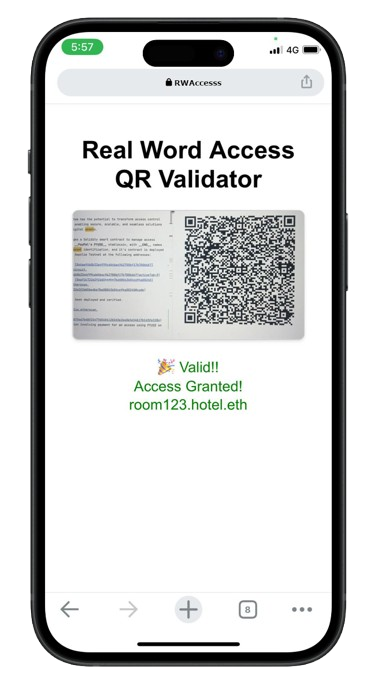
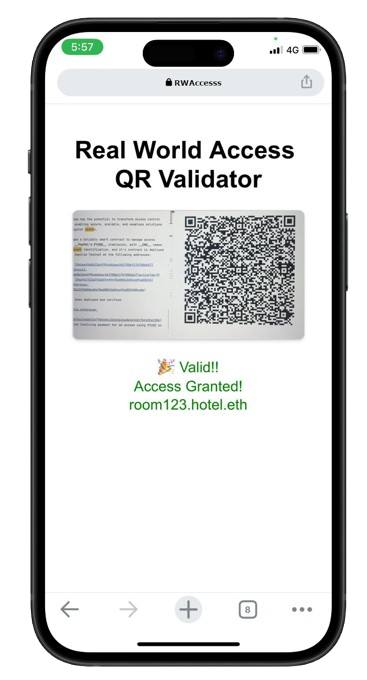
Simplified README. Fixed typo on QR validator.

Changed region(s): [[0.2098, 0.1853, 0.5095, 0.2471]]

diff --git a/web/qr_validator.html b/web/qr_validator.html
@@ -44,7 +44,7 @@
   </style>
 </head>
 <body>
-<h1>Real Word Access <br> QR Validator</h1>
+<h1>Real World Access <br> QR Validator</h1>
 <video id="video" autoplay playsinline></video>
 <canvas id="canvas"></canvas>
 <div id="result"></div>

diff --git a/src/qr_signature.py b/src/qr_signature.py
@@ -35,19 +35,27 @@ def qr_read(fnf_qr='qr_keypass.png'):
 
     # Print the decoded data
     for obj in decoded_objects:
-        print("Decoded Data:", obj.data.decode("utf-8"))
-        print("Type:", obj.type)
+        print("Decoded Type:", obj.type)
+        print("Decoded Data:\n", json.dumps(json.loads(obj.data.decode("utf-8")), indent=2))
+        print()
+
     return obj.data.decode("utf-8")
 
+
 def example():
-    data_write = json.dumps({
+    data = {
         "user": "0x25a0fEC55dD7cc314A8Bb00e666489524b7d9cB9",
         "tstart": 1755555555,
         "tend": 1755559155,
-        "ens": "room123.hotel.eth",
+        "ens": "room124.hotel.eth",
[2 lines of base64/hex data omitted]
-    })
+    }
+    print('Generating QR Code for:')
+    print(json.dumps(data, indent=2))
+    print()
+
+    data_write = json.dumps(data)
     qr_generate(data_write)
 
     # Read generated QR code:
@@ -58,7 +66,6 @@ def example():
         print("info: success! (read == written)")
     else:
         print("error: written and read data is different!")
-
 
 
 if __name__ == "__main__":

diff --git a/README.md b/README.md
@@ -1,21 +1,23 @@
 # RWAccess - Real World Access
 
-**RWAccess** is a Proof-of-Concept (PoC) demonstrating secure, decentralized access control for real-world assets using blockchain, cryptography, and QR codes. 
 
-By making a stablecoin payment to a smart contract, users receive a QR code that serves as a secure digital key. This key can replace or complement traditional access methods, such as hotel room keys, conference passes, gym memberships, or any system requiring gated access, offering a seamless and versatile solution.
+__RWAccess__ is a Proof-of-Concept (PoC) showcasing secure, decentralized access control for real-world assets using blockchain, cryptography, and QR codes.
 
-Access is granted via QR codes containing cryptographically signed messages, replacing traditional keys or passes.
+Instead of traditional keys or passes, users gain access through QR codes containing cryptographically signed messages. By making a stablecoin payment to a smart contract, the user receives a signed message which, when co-signed by the user, acts as a secure digital key.
 
-This innovative system has the potential to transform access control across industries, enabling secure, scalable, and seamless solutions for physical and digital assets.
+This system can replace or complement conventional access methods (hotel room keys, event passes, gym memberships, etc.), offering a seamless and versatile solution with strong cryptographic guarantees.
 
-This project leverages a Solidity smart contract to manage access rights, powered by __PayPal's PYUSD__ stablecoin, with __ENS__ names for user-friendly asset identification, and it's contract is deployed on __Zircuit__ and Sepolia Testnet at the following addresses:
+RWAccess uses:
 
-* Zircuit Contract: [0x6aef6b0b33a4f99cdd4bac962700bf17b700b6b7](https://explorer.zircuit.com/address/0x6aef6b0b33a4f99cdd4bac962700bf17b700b6b7?activeTab=3)
-* Sepolia Contract: [0xaf2c722e2f2dd5bedbe7be08043604ce94a00240](https://sepolia.etherscan.io/address/0xaf2c722e2f2dd5bedbe7be08043604ce94a00240#code) 
+* A Solidity smart contract to manage access rights.
+* PayPal USD (PYUSD) for stable, predictable payments.
+* ENS for human-readable asset identifiers.
+* Deployments on Zircuit and Sepolia Testnet:
+  * Zircuit Contract: [0x6aef6b0b33a4f99cdd4bac962700bf17b700b6b7](https://explorer.zircuit.com/address/0x6aef6b0b33a4f99cdd4bac962700bf17b700b6b7?activeTab=3)
+  * Sepolia Contract: [0xaf2c722e2f2dd5bedbe7be08043604ce94a00240](https://sepolia.etherscan.io/address/0xaf2c722e2f2dd5bedbe7be08043604ce94a00240#code) 
 
 Both contracts have been deployed and verified.
 
-[Here](https://sepolia.etherscan.io/tx/0xa71d578ff7c29d8b7fea7e48f21477d54041202d3e2ea0e5e54b17b1d3fa328a) is also a transaction involving payment for an access using PYUSD on Sepolia.
 
 ## Overview
 
@@ -23,14 +25,18 @@ RWAccess enables secure access to real-world assets (e.g., hotel rooms, vehicles
 
 Users pay for time-bound access using PYUSD, defined by `tstart` and `tend` in Unix time. After payment, a signature server validates and signs grants access-rights by signing the access request. This signed message, when combined with the user's signature is used to generate a QR code that can be used by any access verifier to grant or deny access.
 
+
 ### Key Features
+
 - **Solidity Smart Contract**: Manages access rights, ensuring no double-booking by tracking `tstart` and `tend`.
 - **PYUSD Payments**: Access is paid in PayPal's PYUSD stablecoin, with a configurable price-per-second set by the contract owner.
 - **ENS Integration**: Uses ENS names for human-readable, upgradable, and compact asset identification in QR codes, and enhanced security via asset address resolution.
 - **Signed QR Codes**: Act as key/pass with the following fields: `[addr, tstart, tend, ens, sig1, sig2]`.
 - **Offline Operation**: Designed for minimal dependencies, allowing requestors and grantors to operate without internet access.
 
+
 ## Applications
+
 RWAccess can replace or complement traditional access methods, such as:
 - **Physical Keys/Passes**: Hotel keycards, car keys, gym passes, plane tickets, or event badges.
 - **Advanced Use Cases**:
@@ -38,15 +44,16 @@ RWAccess can replace or complement traditional access methods, such as:
   - **Easy Recovery**: Recover lost access credentials via blockchain-based identity.
   - **Scalable Access**: Enable shared access for rentals, co-working spaces, or community resources.
 
+
 ## Why ENS?
 
 The Ethereum Name Service (ENS) simplifies blockchain interactions by mapping human-readable domain names, like example.eth, to Ethereum addresses, enhancing user experience and security for transactions and dApps.
-
 
 1. **Human-Readable**: Simplifies user experience with names like `room123.hotel.eth` instead of cryptic addresses. It can also easily point to which access it refers to, for example: `branchX.club.eth`, `license.car.eth`, `ticketX.concert.eth`, etc.
 1. **Security**: The ens can resolve to address that is expected as the owner (i.e. _sig1_ must resolve to that same address)
 1. **Compact QR Codes**: Reduces QR code density for better machine readability.
 1. **Transparent Upgrades**: Allows seamless updates to the coordinator address via ENS.
+
 
 ## Why PayPal USD?
 
@@ -69,11 +76,13 @@ Zircuit is an Ethereum Layer 2 zk-rollup blockchain leveraging AI-driven securit
 
 
 ## How It Works?
+
 1. **Access Setup**: A RWAccess contract is deployed with an ENS identifier and price per second.
 2. **Payment**: Users pay in PYUSD for access between `tstart` and `tend`. The contract validates availability and logs the booking.
 3. **Signed Message**: A structure `[user, tstart, tend, ens, sig1]` is logged (initially with an empty signature) and signed by a validator.
 4. **QR Code Generation**: The final signed message with the user's signature is encoded into an access QR code.
 5. **Access Verification**: The access grantor scans the QR code, verifies the signatures (one for the validator, and another from the user), and grants access if valid and within the time window.
+
 
 ## How To Use?
 
@@ -85,7 +94,7 @@ npx hardhat compile
 npx hardhat test
 ```
 
-In this test: 0) a mock stablecoin is deployed; 1) a payment is made to request access; 2/3) this is validated and signed; 4) and finally the user is provided with the data it needs to 5) generate a valid QR code.
+In this test: __0)__ a mock stablecoin is deployed and the user account funded; __1)__ a time window is selected and payment made to request access; __2/3)__ the request is validated and signed; __4)__ the user receives the required data; __5)__ a valid QR code is generated; and __6)__ the validator grants access if the QR code signatures are valid.
 
 <img src="./rwaccess.png" alt="RWAccess flow diagram" width="auto" height="300">
 
